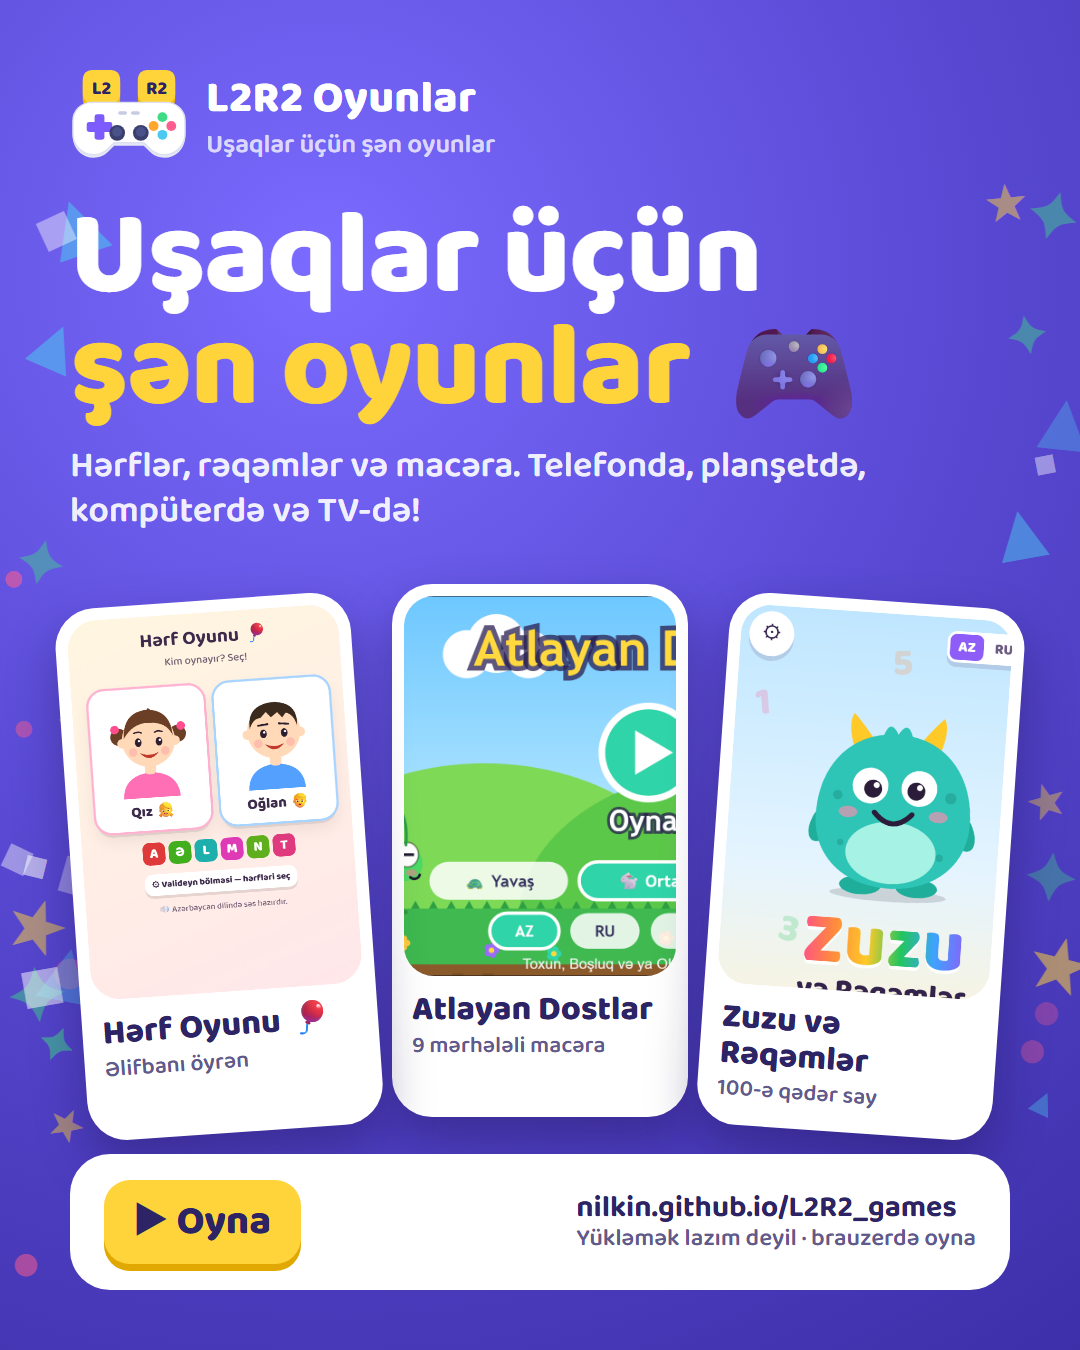
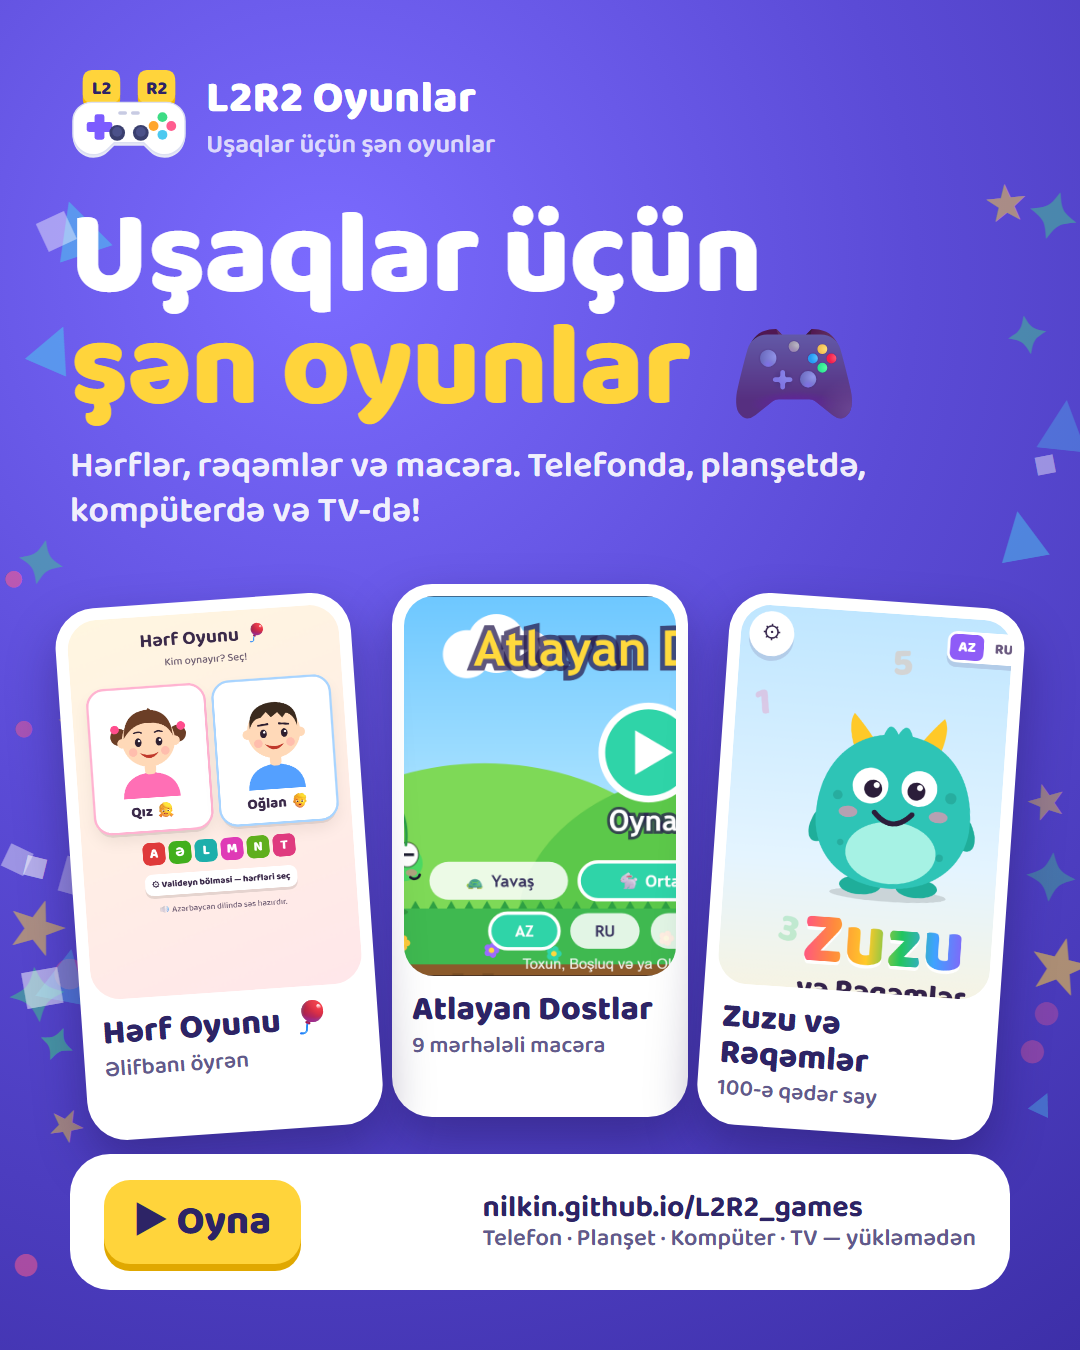
Tablet support everywhere
- Hərf Oyunu: larger layout on tablets (portrait + landscape), phone unchanged
- Hub: add Tablet device chip with custom tablet icon (AZ/RU/EN)
- Atlayan Dostlar: rotate hint says "device" instead of "phone"
- Instagram posters: list Phone · Tablet · Computer · TV

Changed region(s): [[0.4583, 0.8711, 0.8861, 0.9333]]

diff --git a/index.html b/index.html
@@ -85,6 +85,9 @@
   .devices{display:flex;gap:8px;flex-wrap:wrap;margin-top:18px}
   @media (max-width:820px){.devices{justify-content:center}}
   .devices span{background:var(--glass);border-radius:99px;padding:2px 12px;font-weight:700;font-size:15px}
+  .devices .dv{display:inline-flex;align-items:center;gap:5px}
+  .devices .dv i{font-style:normal}
+  .devices .ico{width:1.35em;height:1em;flex:none}
 
   .scene{width:100%;height:auto;display:block;filter:drop-shadow(0 18px 30px rgba(60,30,90,.18))}
   .scene .sun{transform-box:fill-box;transform-origin:center;animation:spin 24s linear infinite}
@@ -206,7 +209,7 @@
         <a class="btn p" href="#games" data-t="ctaPlay">🎮 Oyunlara bax</a>
         <a class="btn s" href="#idea" data-t="ctaIdea">💡 İdeya göndər</a>
       </div>
-      <div class="devices"><span data-t="dev1">📱 Telefon</span><span data-t="dev2">💻 Kompüter</span><span data-t="dev3">📺 TV</span><span>🌐 AZ · RU · EN</span></div>
+      <div class="devices"><span data-t="dev1">📱 Telefon</span><span class="dv"><svg class="ico" viewBox="0 0 24 18" aria-hidden="true"><rect x=".8" y=".8" width="22.4" height="16.4" rx="3" fill="#4a4f66"/><rect x="3.6" y="2.8" width="16.8" height="12.4" rx="1.2" fill="#24294a"/><rect x="5.2" y="4.6" width="2.6" height="2.6" rx=".7" fill="#ff5d8f"/><rect x="8.8" y="4.6" width="2.6" height="2.6" rx=".7" fill="#ffa62b"/><rect x="12.4" y="4.6" width="2.6" height="2.6" rx=".7" fill="#3ddc84"/><rect x="16.0" y="4.6" width="2.6" height="2.6" rx=".7" fill="#4cc9f0"/><rect x="5.2" y="8.8" width="2.6" height="2.6" rx=".7" fill="#7c5cff"/><rect x="8.8" y="8.8" width="2.6" height="2.6" rx=".7" fill="#ffd43b"/><rect x="12.4" y="8.8" width="2.6" height="2.6" rx=".7" fill="#4cc9f0"/><rect x="16.0" y="8.8" width="2.6" height="2.6" rx=".7" fill="#ff5d8f"/><circle cx="2.2" cy="9" r=".7" fill="#8a90ad"/></svg><i data-t="dev4">Planşet</i></span><span data-t="dev2">💻 Kompüter</span><span data-t="dev3">📺 TV</span><span>🌐 AZ · RU · EN</span></div>
     </div>
     <svg class="scene" viewBox="0 0 600 380" aria-hidden="true">
       <defs>
@@ -442,7 +445,7 @@
 
 <script>
 const T = {
-  az:{brand:"Oyunlar",ctaPlay:"🎮 Oyunlara bax",ctaIdea:"💡 İdeya göndər",dev1:"📱 Telefon",dev2:"💻 Kompüter",dev3:"📺 TV",heroTitle:'Uşaqlar üçün <span>şən oyunlar</span>',heroSub:"Yükləmək lazım deyil — telefonda, planşetdə, kompüterdə və TV-də brauzerdə oyna.",
+  az:{brand:"Oyunlar",ctaPlay:"🎮 Oyunlara bax",ctaIdea:"💡 İdeya göndər",dev1:"📱 Telefon",dev4:"Planşet",dev2:"💻 Kompüter",dev3:"📺 TV",heroTitle:'Uşaqlar üçün <span>şən oyunlar</span>',heroSub:"Yükləmək lazım deyil — telefonda, planşetdə, kompüterdə və TV-də brauzerdə oyna.",
     gamesTitle:"🎮 Oyunlarımız",play:"▶ Oyna",
     g1Title:"Hərf Oyunu 🎈",g1Desc:"Azərbaycan əlifbasını oynaya-oynaya öyrən: hərfləri tanı, səslərini eşit, ulduz topla.",g1Tag1:"Əlifba",g1Tag2:"Səsli",
     g2Title:"Atlayan Dostlar 🦗🐸🐰🐧",g2Desc:"9 mərhələli macəra: fəsillərdən planetlərə qədər atla, final boss-ları məğlub et, Günəşdə Alov Əjdahası ilə döyüş!",g2Tag1:"Macəra",g2Tag2:"3 dil",
@@ -455,7 +458,7 @@ const T = {
     fAge:"Uşağın yaşı",fName:"Adınız",fContact:"Əlaqə",fContactHint:"E-poçt və ya telefon — oyun hazır olanda xəbər verək (istəyə bağlı)",
     send:"Göndər 🚀",sendWa:"💬 WhatsApp-a göndər",sending:"Göndərilir...",ok:"Təşəkkür edirik! İdeyanız bizə çatdı 🎉",err:"Göndərmək alınmadı. Bir az sonra yenidən cəhd edin.",
     empty:"Zəhmət olmasa ideyanı yazın ✏",gh:"İdeyanı tamamlamaq üçün GitHub səhifəsi açıldı.",footer:"Uşaqlar üçün brauzer oyunları."},
-  ru:{brand:"Игры",ctaPlay:"🎮 К играм",ctaIdea:"💡 Предложить идею",dev1:"📱 Телефон",dev2:"💻 Компьютер",dev3:"📺 ТВ",heroTitle:'Весёлые <span>игры для детей</span>',heroSub:"Ничего не нужно скачивать — играйте в браузере на телефоне, планшете, компьютере и ТВ.",
+  ru:{brand:"Игры",ctaPlay:"🎮 К играм",ctaIdea:"💡 Предложить идею",dev1:"📱 Телефон",dev4:"Планшет",dev2:"💻 Компьютер",dev3:"📺 ТВ",heroTitle:'Весёлые <span>игры для детей</span>',heroSub:"Ничего не нужно скачивать — играйте в браузере на телефоне, планшете, компьютере и ТВ.",
     gamesTitle:"🎮 Наши игры",play:"▶ Играть",
     g1Title:"Игра с буквами 🎈",g1Desc:"Учим азербайджанский алфавит играя: узнавай буквы, слушай их звуки, собирай звёзды.",g1Tag1:"Алфавит",g1Tag2:"Со звуком",
     g2Title:"Прыгающие друзья 🦗🐸🐰🐧",g2Desc:"Приключение из 9 уровней: от времён года до планет, финальные боссы и битва с Огненным Драконом на Солнце!",g2Tag1:"Приключение",g2Tag2:"3 языка",
@@ -468,7 +471,7 @@ const T = {
     fAge:"Возраст ребёнка",fName:"Ваше имя",fContact:"Контакт",fContactHint:"E-mail или телефон — сообщим, когда игра будет готова (необязательно)",
     send:"Отправить 🚀",sendWa:"💬 Отправить в WhatsApp",sending:"Отправляем...",ok:"Спасибо! Ваша идея получена 🎉",err:"Не удалось отправить. Попробуйте чуть позже.",
     empty:"Пожалуйста, опишите идею ✏",gh:"Открыта страница GitHub, чтобы завершить отправку.",footer:"Браузерные игры для детей."},
-  en:{brand:"Games",ctaPlay:"🎮 See the games",ctaIdea:"💡 Send an idea",dev1:"📱 Phone",dev2:"💻 Computer",dev3:"📺 TV",heroTitle:'Fun <span>games for kids</span>',heroSub:"Nothing to install — play in the browser on phone, tablet, computer or TV.",
+  en:{brand:"Games",ctaPlay:"🎮 See the games",ctaIdea:"💡 Send an idea",dev1:"📱 Phone",dev4:"Tablet",dev2:"💻 Computer",dev3:"📺 TV",heroTitle:'Fun <span>games for kids</span>',heroSub:"Nothing to install — play in the browser on phone, tablet, computer or TV.",
     gamesTitle:"🎮 Our games",play:"▶ Play",
     g1Title:"Letter Game 🎈",g1Desc:"Learn the Azerbaijani alphabet through play: spot letters, hear their sounds, collect stars.",g1Tag1:"Alphabet",g1Tag2:"With audio",
     g2Title:"Jumping Friends 🦗🐸🐰🐧",g2Desc:"A 9-level adventure from the seasons to the planets, with boss fights and a Fire Dragon battle on the Sun!",g2Tag1:"Adventure",g2Tag2:"3 languages",

diff --git a/jumping-friends/src/index.html b/jumping-friends/src/index.html
@@ -34,7 +34,7 @@
 <button id="fs" title="Tam ekran">⛶</button>
 <button id="pause" title="Pauza">❚❚</button>
 <input type="file" id="photo" accept="image/*" style="display:none">
-<div id="rot">🔄 Telefonu yan çevir — ekran böyük olacaq!</div>
+<div id="rot">🔄 Cihazı yan çevir — ekran böyük olacaq!</div>
 
 <script>
 // ---------- Köhnə brauzerlər üçün uyğunluq (məs. köhnə LG webOS TV) ----------
@@ -126,7 +126,7 @@ const STR = {
     night: ['Gecə oldu! 🌙', 'Ulduzlar parlayır!'], great: 'Əla! 🎉', ouch: 'Ay!', final: 'Final! 👑', coming: ' gəlir!',
     win: ['Qalib gəldin! 🏆', 'Afərin! Hədiyyən gəlir! 🎁'], space: 'Kosmosa uçuruq! 🚀', livesOut: 'Canlar bitdi! 💔', back: 'Yenidən: ',
     angry: 'Əjdaha qəzəbləndi! 🔥', angry2: 'Diqqətli ol, od yağır!', last: 'Son döyüş! 🔥', congrats: 'Təbriklər! 🎉', finished: 'Oyunu bitirdin!',
-    champion: 'Sən çempionsan!', replay: 'Yenidən oyna 🔄', rotate: '🔄 Telefonu yan çevir — ekran böyük olacaq!',
+    champion: 'Sən çempionsan!', replay: 'Yenidən oyna 🔄', rotate: '🔄 Cihazı yan çevir — ekran böyük olacaq!',
     paused: 'Pauza', resume: 'Davam etmək üçün toxun və ya OK bas',
     stages: [['Yaz gəldi! 🌸', 'Çəyirtkə atlayır!'], ['Yay gəldi! ☀', 'Qurbağa atlayır!'], ['Payız gəldi! 🍂', 'Dovşan atlayır!'], ['Qış gəldi! ❄', 'Pinqvin atlayır!'], ['Aya çatdıq! 🌕', 'Astronavt atlayır!'], ['Marsa çatdıq! 🔴', 'Robot atlayır!'], ['Yupiterə çatdıq! ✨', 'Yadplanetli atlayır!'], ['Saturna çatdıq! 🪐', 'Ahtapot atlayır!'], ['Günəşə çatdıq! 🌞', 'Günəşcik atlayır!']],
     bosses: ['Böyük Arı', 'Qırmızı Xərçəng', 'Tikanlı Kirpi', 'Qar Adamı', 'Uçan Boşqab', 'Dəmir Robot', 'Fırtına Buludu', 'Kosmik Jele', 'Alov Əjdahası'] },
@@ -134,7 +134,7 @@ const STR = {
     night: ['Наступила ночь! 🌙', 'Звёзды сияют!'], great: 'Отлично! 🎉', ouch: 'Ой!', final: 'Финал! 👑', coming: ' идёт!',
     win: ['Ты победил! 🏆', 'Молодец! Вот твой подарок! 🎁'], space: 'Летим в космос! 🚀', livesOut: 'Жизни закончились! 💔', back: 'Снова: ',
     angry: 'Дракон рассердился! 🔥', angry2: 'Осторожно, огненный дождь!', last: 'Последний бой! 🔥', congrats: 'Поздравляем! 🎉', finished: 'Ты прошёл игру!',
-    champion: 'Ты чемпион!', replay: 'Играть снова 🔄', rotate: '🔄 Поверни телефон — экран станет больше!',
+    champion: 'Ты чемпион!', replay: 'Играть снова 🔄', rotate: '🔄 Поверни устройство — экран станет больше!',
     paused: 'Пауза', resume: 'Нажми на экран или OK, чтобы продолжить',
     stages: [['Пришла весна! 🌸', 'Прыгает кузнечик!'], ['Пришло лето! ☀', 'Прыгает лягушка!'], ['Пришла осень! 🍂', 'Прыгает зайчик!'], ['Пришла зима! ❄', 'Прыгает пингвин!'], ['Мы на Луне! 🌕', 'Прыгает космонавт!'], ['Мы на Марсе! 🔴', 'Прыгает робот!'], ['Мы на Юпитере! ✨', 'Прыгает инопланетянин!'], ['Мы на Сатурне! 🪐', 'Прыгает осьминог!'], ['Мы на Солнце! 🌞', 'Прыгает Солнышко!']],
     bosses: ['Большая Пчела', 'Красный Краб', 'Колючий Ёж', 'Снеговик', 'Летающая Тарелка', 'Железный Робот', 'Грозовая Туча', 'Космическое Желе', 'Огненный Дракон'] },
@@ -142,7 +142,7 @@ const STR = {
     night: ['Night time! 🌙', 'The stars are shining!'], great: 'Great! 🎉', ouch: 'Ouch!', final: 'Final! 👑', coming: ' is coming!',
     win: ['You won! 🏆', 'Well done! Here is your gift! 🎁'], space: 'Flying to space! 🚀', livesOut: 'No lives left! 💔', back: 'Again: ',
     angry: 'The dragon is angry! 🔥', angry2: 'Careful, fire rain!', last: 'The last battle! 🔥', congrats: 'Congratulations! 🎉', finished: 'You finished the game!',
-    champion: 'You are the champion!', replay: 'Play again 🔄', rotate: '🔄 Turn your phone sideways for a bigger screen!',
+    champion: 'You are the champion!', replay: 'Play again 🔄', rotate: '🔄 Turn your device sideways for a bigger screen!',
     paused: 'Paused', resume: 'Tap or press OK to continue',
     stages: [['Spring is here! 🌸', 'The grasshopper jumps!'], ['Summer is here! ☀', 'The frog jumps!'], ['Autumn is here! 🍂', 'The bunny jumps!'], ['Winter is here! ❄', 'The penguin jumps!'], ['We reached the Moon! 🌕', 'The astronaut jumps!'], ['We reached Mars! 🔴', 'The robot jumps!'], ['We reached Jupiter! ✨', 'The alien jumps!'], ['We reached Saturn! 🪐', 'The octopus jumps!'], ['We reached the Sun! 🌞', 'Little Sun jumps!']],
     bosses: ['Big Bee', 'Red Crab', 'Spiky Hedgehog', 'Snowman', 'Flying Saucer', 'Iron Robot', 'Storm Cloud', 'Space Jelly', 'Fire Dragon'] },

diff --git a/jumping-friends/index.html b/jumping-friends/index.html
@@ -35,7 +35,7 @@
 <button id="fs" title="Tam ekran">⛶</button>
 <button id="pause" title="Pauza">❚❚</button>
 <input type="file" id="photo" accept="image/*" style="display:none">
-<div id="rot">🔄 Telefonu yan çevir — ekran böyük olacaq!</div>
+<div id="rot">🔄 Cihazı yan çevir — ekran böyük olacaq!</div>
 
 <script>
 function _typeof(o) { "@babel/helpers - typeof"; return _typeof = "function" == typeof Symbol && "symbol" == typeof Symbol.iterator ? function (o) { return typeof o; } : function (o) { return o && "function" == typeof Symbol && o.constructor === Symbol && o !== Symbol.prototype ? "symbol" : typeof o; }, _typeof(o); }
@@ -219,7 +219,7 @@ var STR = {
     finished: 'Oyunu bitirdin!',
     champion: 'Sən çempionsan!',
     replay: 'Yenidən oyna 🔄',
-    rotate: '🔄 Telefonu yan çevir — ekran böyük olacaq!',
+    rotate: '🔄 Cihazı yan çevir — ekran böyük olacaq!',
     paused: 'Pauza',
     resume: 'Davam etmək üçün toxun və ya OK bas',
     stages: [['Yaz gəldi! 🌸', 'Çəyirtkə atlayır!'], ['Yay gəldi! ☀', 'Qurbağa atlayır!'], ['Payız gəldi! 🍂', 'Dovşan atlayır!'], ['Qış gəldi! ❄', 'Pinqvin atlayır!'], ['Aya çatdıq! 🌕', 'Astronavt atlayır!'], ['Marsa çatdıq! 🔴', 'Robot atlayır!'], ['Yupiterə çatdıq! ✨', 'Yadplanetli atlayır!'], ['Saturna çatdıq! 🪐', 'Ahtapot atlayır!'], ['Günəşə çatdıq! 🌞', 'Günəşcik atlayır!']],
@@ -246,7 +246,7 @@ var STR = {
     finished: 'Ты прошёл игру!',
     champion: 'Ты чемпион!',
     replay: 'Играть снова 🔄',
-    rotate: '🔄 Поверни телефон — экран станет больше!',
+    rotate: '🔄 Поверни устройство — экран станет больше!',
     paused: 'Пауза',
     resume: 'Нажми на экран или OK, чтобы продолжить',
     stages: [['Пришла весна! 🌸', 'Прыгает кузнечик!'], ['Пришло лето! ☀', 'Прыгает лягушка!'], ['Пришла осень! 🍂', 'Прыгает зайчик!'], ['Пришла зима! ❄', 'Прыгает пингвин!'], ['Мы на Луне! 🌕', 'Прыгает космонавт!'], ['Мы на Марсе! 🔴', 'Прыгает робот!'], ['Мы на Юпитере! ✨', 'Прыгает инопланетянин!'], ['Мы на Сатурне! 🪐', 'Прыгает осьминог!'], ['Мы на Солнце! 🌞', 'Прыгает Солнышко!']],
@@ -273,7 +273,7 @@ var STR = {
     finished: 'You finished the game!',
     champion: 'You are the champion!',
     replay: 'Play again 🔄',
-    rotate: '🔄 Turn your phone sideways for a bigger screen!',
+    rotate: '🔄 Turn your device sideways for a bigger screen!',
     paused: 'Paused',
     resume: 'Tap or press OK to continue',
     stages: [['Spring is here! 🌸', 'The grasshopper jumps!'], ['Summer is here! ☀', 'The frog jumps!'], ['Autumn is here! 🍂', 'The bunny jumps!'], ['Winter is here! ❄', 'The penguin jumps!'], ['We reached the Moon! 🌕', 'The astronaut jumps!'], ['We reached Mars! 🔴', 'The robot jumps!'], ['We reached Jupiter! ✨', 'The alien jumps!'], ['We reached Saturn! 🪐', 'The octopus jumps!'], ['We reached the Sun! 🌞', 'Little Sun jumps!']],

diff --git a/alfa_be/index.html b/alfa_be/index.html
@@ -122,6 +122,45 @@
   @keyframes bounce{0%,100%{transform:scale(1)}50%{transform:scale(1.2) rotate(-6deg)}}
   @keyframes blink{0%,94%,100%{transform:scaleY(1)}97%{transform:scaleY(.1)}}
   @keyframes pulse{0%,100%{transform:scale(1)}50%{transform:scale(1.12)}}
+
+  /* Planşet / böyük ekran: hər şey böyük, uşaq barmağı üçün rahat (telefon görünüşü dəyişmir) */
+  @media (min-width:700px) and (min-height:700px){
+    h1{font-size:56px}
+    .sub{font-size:24px}
+    .kid-card{width:280px;border-radius:32px}
+    .kid-card .nm{font-size:32px}
+    .letters-preview{max-width:820px;gap:8px}
+    .letters-preview span{width:50px;height:50px;font-size:30px;border-radius:14px}
+    .top,.stage,.panel{max-width:880px}
+    .avatar{width:104px}
+    .bubble{font-size:24px;min-height:62px;padding:12px 18px}
+    .stars{font-size:26px;padding:8px 14px}
+    .tab{font-size:21px;padding:9px 22px}
+    .stage{gap:12px;padding:18px}
+    .pic{font-size:92px}
+    .say{width:62px;height:62px;font-size:30px}
+    .slot{width:76px;height:88px;font-size:54px;border-radius:18px}
+    .tiles{max-width:820px;gap:12px}
+    .tile{font-size:58px;padding:8px 0;border-radius:22px}
+    .tiles.many .tile{font-size:42px}
+    .btn{font-size:23px;padding:12px 22px}
+    .btn.sm{font-size:18px;padding:8px 14px}
+    .found{max-width:860px}
+    .found span{font-size:21px}
+    .back,.fs{font-size:19px;padding:10px 14px}
+    .name-av{width:240px}
+    .name-in{font-size:42px;width:440px}
+    .sugg button{font-size:21px}
+  }
+  @media (min-width:700px) and (min-height:950px){
+    #pickScreen,#gameScreen,#nameScreen{justify-content:center}
+    .kid-card{width:320px}
+    .stage{gap:22px;padding:26px}
+    .pic{font-size:140px}
+    .slot{width:96px;height:112px;font-size:66px;border-radius:20px}
+    .tile{font-size:76px;padding:16px 0}
+    .tiles.many .tile{font-size:50px}
+  }
 </style>
 </head>
 <body>
